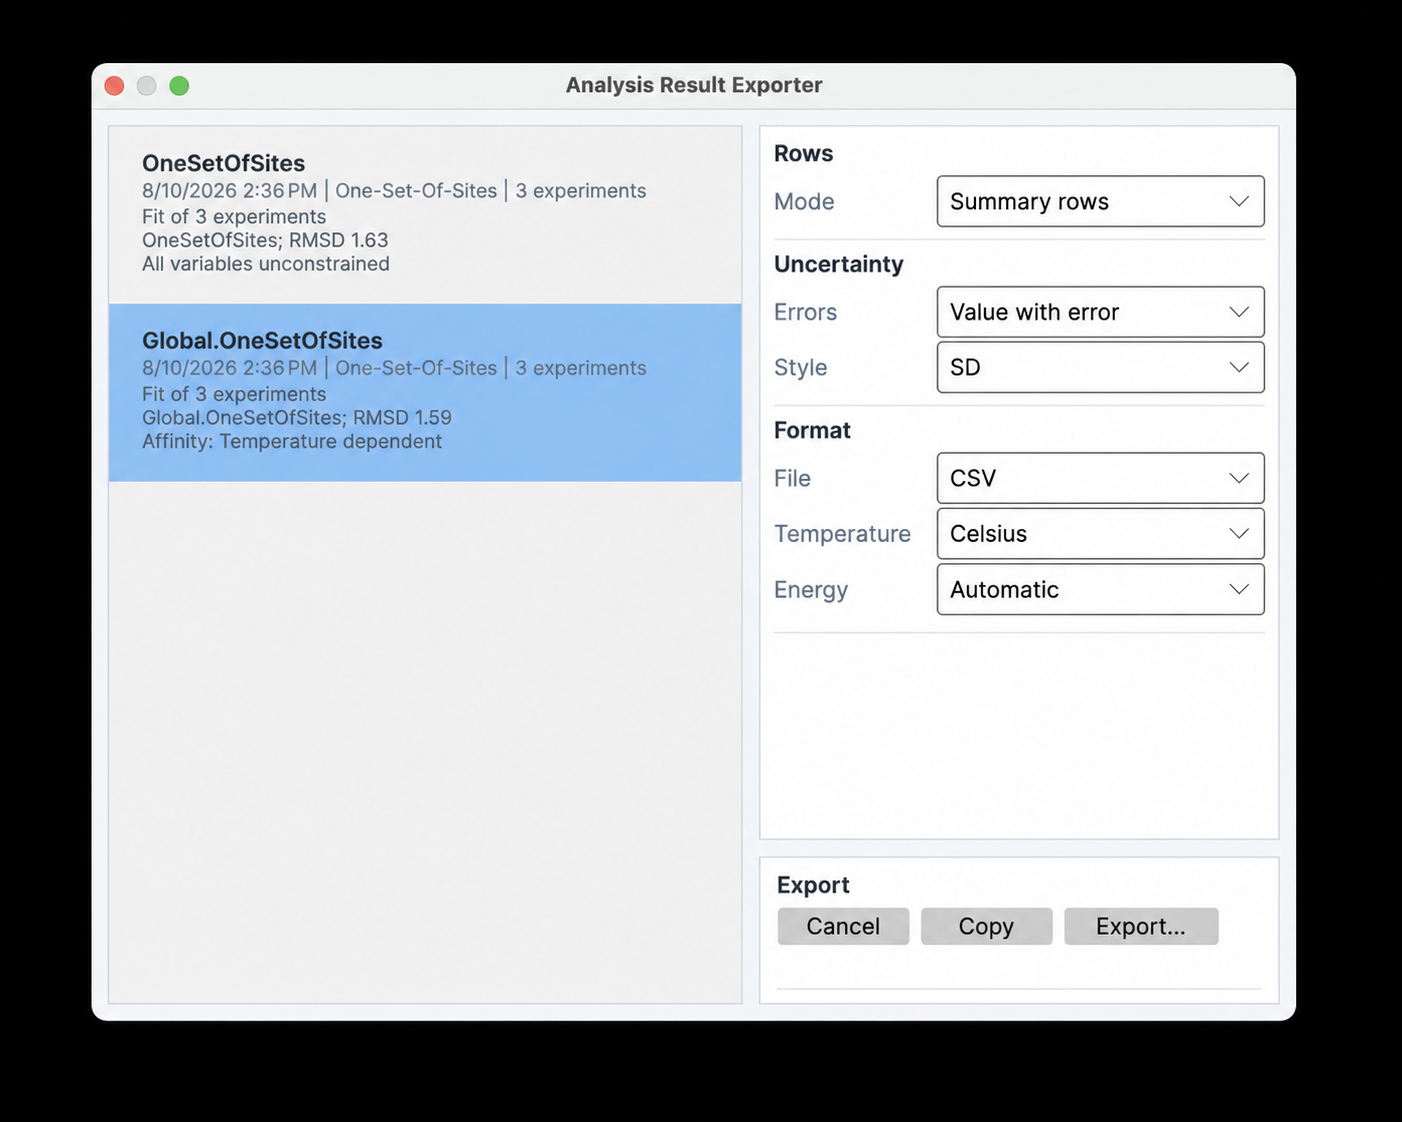
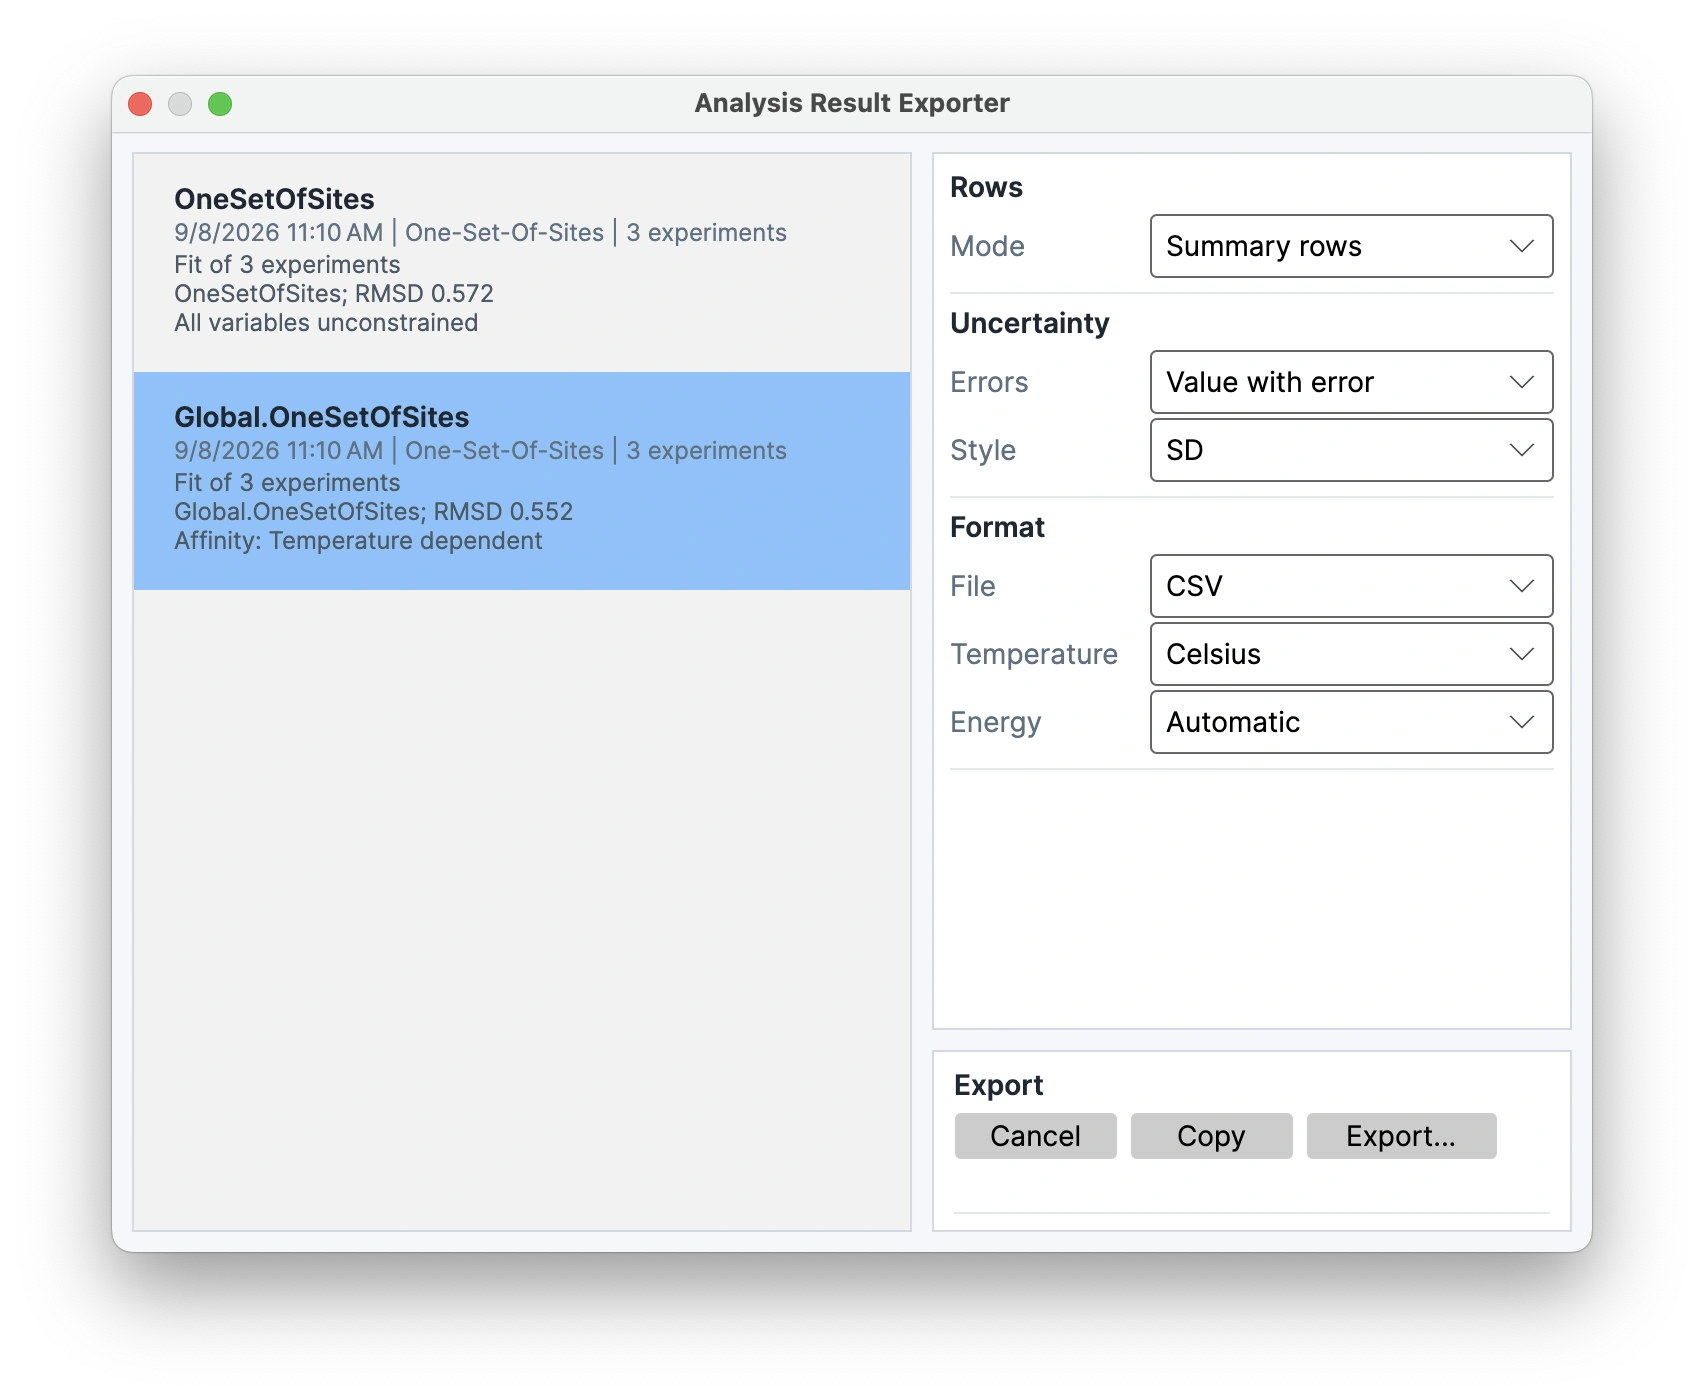
updated manual images and registration site

diff --git a/manual/figures-printing-export.html b/manual/figures-printing-export.html
@@ -110,8 +110,9 @@
 <p>The configured table is available through <strong>Copy</strong> and <strong>Export...</strong>. Copy places the same delimited text on the clipboard; Export writes it to a file. Profile-likelihood SD columns use the equivalent display scale implied by their stored endpoints and are labeled as such in exported metadata; the exact lower/upper endpoints remain available in separate-column mode. The exporter does not include the parameter-correlation matrix, which is calculated for display rather than stored as a result-table field.</p>
 <p>Result tables, clipboard output, final-figure metadata, and viewer output create thermodynamic columns from the fitted model shape. A sequential result therefore exports one Kd, ΔH, ΔG, and −TΔS value for every active step, including steps 3 and 4, rather than truncating the result to two interactions. The fixed step count is included as model information. Values remain in their displayed families; exporting does not convert macroscopic sequential constants into microscopic site constants.</p>
 <p>Each affinity column chooses its concentration unit independently from its own magnitude. For example, Kd1 may be shown in nM while Kd4 is shown in µM. The column header and its values always use the same unit; this is display scaling only and does not change fitted or persisted values.</p>
-<figure class="manual-figure"><img src="/manual/assets/analysis-result-exporter.webp" alt="Analysis Result Exporter showing selected results, summary-row mode, uncertainty layout and style, CSV format, temperature units, Automatic energy selection, Copy, and Export." loading="lazy" decoding="async" width="1402" height="1122"><figcaption>Analysis Result Exporter configures a delimited table for clipboard or file output.</figcaption></figure>
+<figure class="manual-figure"><img src="/manual/assets/analysis-result-exporter.webp" alt="Analysis Result Exporter showing selected results, summary-row mode, uncertainty layout and style, CSV format, temperature units, Automatic energy selection, Copy, and Export." loading="lazy" decoding="async" width="1704" height="1400"><figcaption>Analysis Result Exporter configures a delimited table for clipboard or file output.</figcaption></figure>
 <h2 id="analysis-report">Analysis Report</h2><p><strong>Tools &gt; Analysis Report...</strong> creates a complete, printable report from one or more saved Analysis Results. The same tool is available as <strong>Export Analysis Report...</strong> in result-specific menus, where that result is initially selected. Use <strong>Select report contents...</strong> to choose results and optional supporting experiments together. The picker follows application order; applying the same ordered selection again restores its saved study context and approved interpretation. At least one result is required.</p>
+<figure class="manual-figure"><img src="/manual/assets/analysis-report.webp" alt="Analysis Report window showing the report preview and controls for selecting results, document metadata, presentation units, optional content, interpretation, and PDF export." loading="lazy" decoding="async" width="2664" height="1840"><figcaption>Analysis Report combines a paginated preview with controls for report contents, presentation, interpretation, and PDF export.</figcaption></figure>
 <h3 id="report-contents-and-layout">Report contents and layout</h3>
 <p>The report is a multipage A4 portrait PDF with margins suitable for printing. A report containing multiple results begins with a combined result index and concise table of contents on the first page, followed by the report-level interpretation and one self-contained chapter for each result. Results are referenced as <strong>1</strong>, <strong>2</strong>, and so on, and their experiments as <strong>1A</strong>, <strong>1B</strong>, <strong>2A</strong>, <strong>2B</strong>, and so on. These labels are derived from the saved result and experiment order, so figures, captions, and interpretation evidence use the same stable references. No experiments or scientific estimates are merged across results. Each chapter overview arranges the experiments in compact, borderless figure panels labeled with their references and names. The report automatically chooses three to five columns, centers incomplete rows, and suppresses repeated axis titles.</p>
 <p>The analysis summary contains a compact grouped thermodynamic bar chart for every saved member and active binding step. Its whiskers show only the saved 95% confidence interval from the solution distribution or profile-likelihood calculation; the symmetric SD approximation remains available in report tables but is not superimposed on this plot. Each experiment section places a wider, baseline-focused view of the uncorrected thermogram—with its saved baseline and compact horizontal markers for the integration windows—beside a top-aligned Final Figure at its standard size containing the complete thermogram, followed closely by fitted and derived parameters. When <strong>Injection tables</strong> is selected, a table records every saved injection, its inclusion state, volume, concentrations, analysis-axis value, integrated heat and uncertainty, fitted heat, and residual. This processing presentation is an automatic report preset and does not add another figure control. A concise notice replaces the processing graph when raw thermogram samples are unavailable. Selected shared correlations follow the analysis summary; selected member correlations follow that experiment’s parameter table, using a compact native matrix rather than a dedicated page.</p>

diff --git a/register.html b/register.html
@@ -10,14 +10,14 @@
 <body data-page="register" data-registration-page>
   <header class="topbar wrap"><a class="brand" href="/" aria-label="FT-ITC Analysis home"><img src="assets/icon-180.png" alt="" width="180" height="180"><span>FT-ITC <em>Analysis</em></span></a><button class="menu-toggle" type="button" aria-expanded="false" aria-controls="site-nav">Menu</button><nav id="site-nav" class="site-nav" aria-label="Primary navigation"><a data-nav="app" href="/app-desktop">Desktop app</a><a data-link="webApp" href="https://app.ft-itc.org">Web viewer ↗</a><a data-nav="resources" href="/resources">Resources</a><a data-nav="analysis" href="/analysis">Advanced analysis</a><a class="button button-primary nav-download" data-link="download" href="/app-desktop#platforms">Download <span aria-hidden="true">↗</span></a></nav></header>
   <main>
-    <section class="page-hero registration-page-header wrap"><p class="eyebrow">AI interpretation access</p><h1>Register for hosted<br><span>AI interpretation.</span></h1><p class="lede">This registration is only for the hosted interpretation service. The desktop app, local analysis and the web viewer do not require an interpretation access code.</p></section>
+    <section class="page-hero registration-page-header wrap"><p class="eyebrow">AI interpretation access</p><h1>Register for hosted<br><span>AI interpretation.</span></h1><p class="lede">This registration is only for the hosted interpretation service. The desktop app, local analysis and the web viewer do not require any registration.</p></section>
     <section class="registration-layout registration-layout-focused wrap">
       <div class="registration-card"><h2>Registration details</h2><p class="registration-summary">Enter an email address you can access. We use these details only to provide and support interpretation access.</p><p class="registration-status" data-registration-status role="status" aria-live="polite">Checking registration availability…</p><div class="registration-notice" data-registration-notice hidden role="alert"></div>
         <form class="registration-form" data-registration-form novalidate>
           <div class="field"><label for="registration-name">Name</label><input id="registration-name" name="name" type="text" autocomplete="name" maxlength="120" required aria-describedby="registration-name-help registration-name-error"><small id="registration-name-help">Up to 120 characters.</small><span class="field-error" id="registration-name-error" data-error-for="name"></span></div>
           <div class="field"><label for="registration-email">Email address</label><input id="registration-email" name="email" type="email" autocomplete="email" maxlength="254" required aria-describedby="registration-email-help registration-email-error"><small id="registration-email-help">Use an address you can access.</small><span class="field-error" id="registration-email-error" data-error-for="email"></span></div>
           <div class="field"><label for="registration-organisation">Organisation <span>(optional)</span></label><input id="registration-organisation" name="organisation" type="text" autocomplete="organization" maxlength="200" aria-describedby="registration-organisation-help registration-organisation-error"><small id="registration-organisation-help">Up to 200 characters.</small><span class="field-error" id="registration-organisation-error" data-error-for="organisation"></span></div>
-          <div class="checkbox-stack"><div class="checkbox-field"><input id="registration-terms" name="acceptedTerms" type="checkbox" required aria-describedby="registration-terms-error"><label for="registration-terms">I accept the <a href="/terms">Terms</a> <span data-terms-version>current version</span>.<small class="field-error" id="registration-terms-error" data-error-for="terms"></small></label></div><div class="checkbox-field"><input id="registration-privacy" name="acknowledgedPrivacy" type="checkbox" required aria-describedby="registration-privacy-error"><label for="registration-privacy">I acknowledge the <a href="/privacy">Privacy Notice</a> <span data-privacy-version>ft-itc-privacy-1.0</span>.<small class="field-error" id="registration-privacy-error" data-error-for="privacy"></small></label></div></div>
+          <div class="checkbox-stack"><div class="checkbox-field"><input id="registration-terms" name="acceptedTerms" type="checkbox" required aria-describedby="registration-terms-error"><label for="registration-terms">I accept the <a href="/terms">Terms & Conditions</a>.<small class="field-error" id="registration-terms-error" data-error-for="terms"></small></label></div><div class="checkbox-field"><input id="registration-privacy" name="acknowledgedPrivacy" type="checkbox" required aria-describedby="registration-privacy-error"><label for="registration-privacy">I acknowledge the <a href="/privacy">Privacy Notice</a>.<small class="field-error" id="registration-privacy-error" data-error-for="privacy"></small></label></div></div>
           <div class="turnstile-box" data-turnstile-container aria-describedby="registration-turnstile-error"></div><span class="field-error" id="registration-turnstile-error" data-error-for="turnstile"></span>
           <button class="button button-primary" type="submit" data-registration-submit disabled>Submit registration</button>
         </form>
